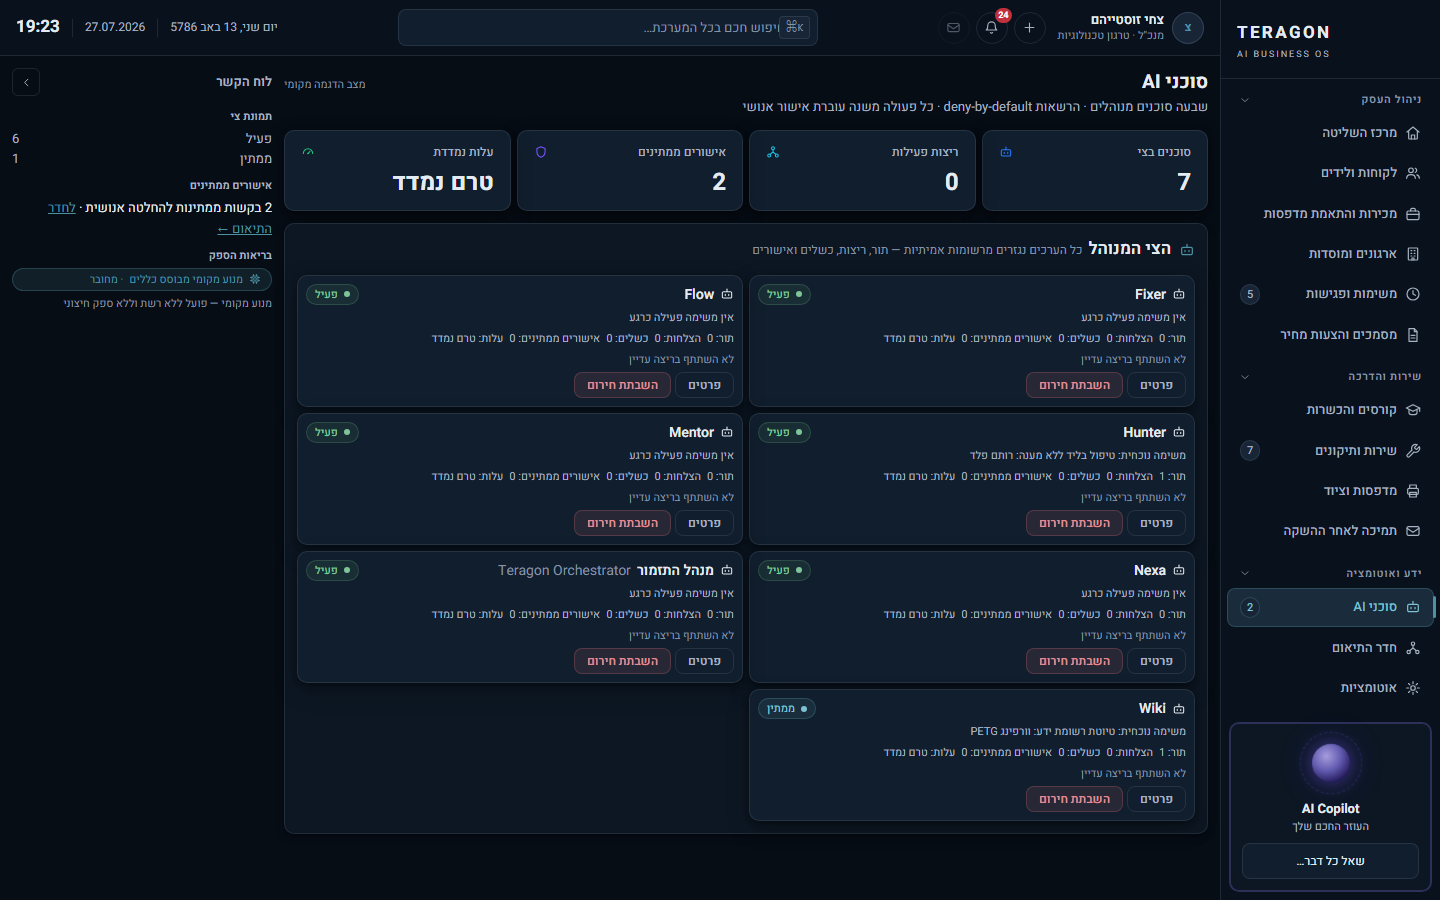
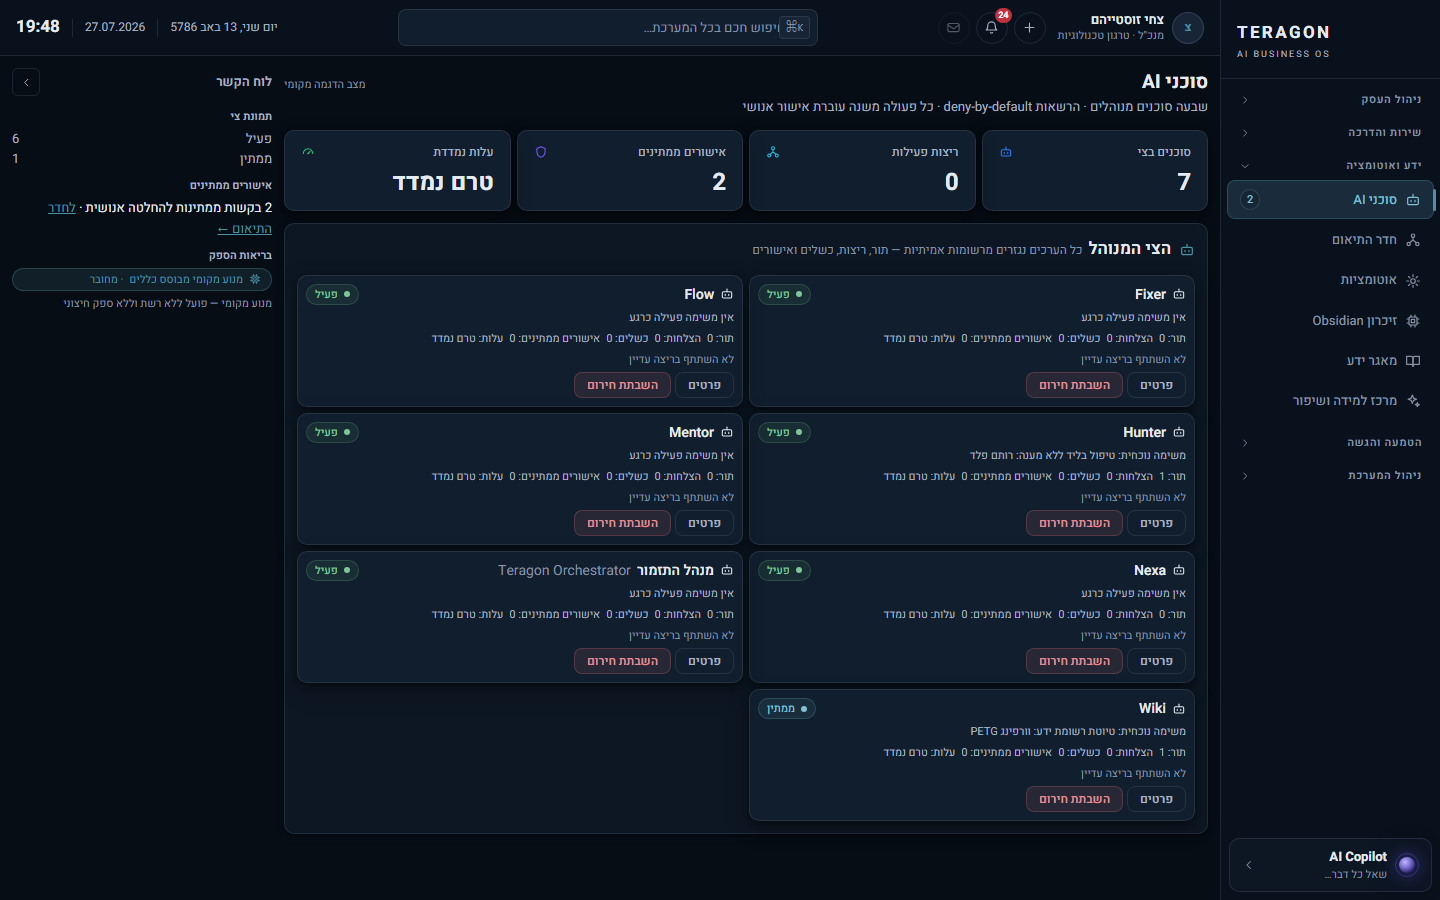
style(shell): VC-B calm application shell + navigation
Only the active nav group expands by default; unrelated groups collapse;
explicit user toggles persist and override the default. Hide zero-value
badges. Lower inactive nav label/icon contrast (AA-verified). Copilot is now
a compact, static, non-glowing button when inactive (violet reserved for the
active Copilot); removed the permanently animated/glowing nav orb.

Pilot axe 0 serious/0 critical/0 contrast; tsc clean; lint clean; 1694/1694.
Branch only, not deployed.

diff --git a/src/app/OsShell.tsx b/src/app/OsShell.tsx
@@ -83,18 +83,17 @@ function NavCopilotCard(): ReactElement {
     <button
       type="button"
       onClick={openCopilot}
-      className="os-copilot os-copilot--button"
+      className="os-copilot os-copilot--compact"
       aria-label="פתיחת AI Copilot"
       data-testid="shell-open-copilot"
     >
-      <GlowOrb size={56} accent="violet" />
-      <div>
-        <div className="os-copilot__title">AI Copilot</div>
-        <div className="os-copilot__sub">העוזר החכם שלך</div>
+      {/* VC-B: compact, static AI marker — no permanently glowing/animated orb */}
+      <GlowOrb size={24} accent="violet" animated={false} />
+      <div className="os-copilot__labels">
+        <span className="os-copilot__title">AI Copilot</span>
+        <span className="os-copilot__sub">שאל כל דבר…</span>
       </div>
-      <div className="os-copilot__form" aria-hidden="true">
-        <span className="os-copilot__input">שאל כל דבר…</span>
-      </div>
+      <OsIcon name="chevron-forward" size={14} aria-hidden="true" />
     </button>
   );
 }
@@ -113,33 +112,31 @@ function OsShellInner(): ReactElement {
     });
   }, []);
 
+  const activeId = activeItemForPath(location.pathname);
+  const activeGroupId = groupOfPath(location.pathname)?.id;
+
+  // VC-B: only the active group is expanded by default; unrelated groups stay
+  // collapsed. An explicit user toggle is persisted and overrides the default.
+  const effectiveOpenGroups = useMemo(() => {
+    const eff: Record<string, boolean> = {};
+    for (const g of NAV_GROUPS) {
+      const stored = shellState.openGroups[g.id];
+      eff[g.id] = typeof stored === "boolean" ? stored : g.id === activeGroupId;
+    }
+    return eff;
+  }, [shellState.openGroups, activeGroupId]);
+
   const toggleGroup = useCallback(
     (groupId: string) => {
-      const open = shellState.openGroups[groupId] !== false;
+      const open = effectiveOpenGroups[groupId] ?? false;
       updateShellState({ openGroups: { ...shellState.openGroups, [groupId]: !open } });
     },
-    [shellState.openGroups, updateShellState],
+    [effectiveOpenGroups, shellState.openGroups, updateShellState],
   );
 
   const toggleRail = useCallback(() => {
     updateShellState({ railCollapsed: !shellState.railCollapsed });
   }, [shellState.railCollapsed, updateShellState]);
-
-  // ── active route → auto-expand its group (runs on route change) ──
-  const activeId = activeItemForPath(location.pathname);
-  const activeGroupId = groupOfPath(location.pathname)?.id;
-  useEffect(() => {
-    if (!activeGroupId) return;
-    setShellState((prev) => {
-      if (prev.openGroups[activeGroupId] !== false) return prev;
-      const next = {
-        ...prev,
-        openGroups: { ...prev.openGroups, [activeGroupId]: true },
-      };
-      saveShellState(next);
-      return next;
-    });
-  }, [activeGroupId]);
 
   // ── derived badges ──
   const badges = useNavBadges();
@@ -155,7 +152,7 @@ function OsShellInner(): ReactElement {
             label: item.label,
             icon: item.icon,
             href: item.path,
-            ...(typeof badge === "number" ? { badge } : {}),
+            ...(typeof badge === "number" && badge > 0 ? { badge } : {}), // VC-B: hide zero badges
           };
         }),
       })),
@@ -228,7 +225,7 @@ function OsShellInner(): ReactElement {
     <ToastProvider>
       <AppShell
         navGroups={navGroups}
-        openGroups={shellState.openGroups}
+        openGroups={effectiveOpenGroups}
         onToggleGroup={toggleGroup}
         activeNavId={activeId}
         activeRoute={location.pathname}
@@ -279,7 +276,7 @@ function OsShellInner(): ReactElement {
         >
           <RightPrimaryNavigation
             groups={navGroups}
-            openGroups={shellState.openGroups}
+            openGroups={effectiveOpenGroups}
             onToggleGroup={toggleGroup}
             activeId={activeId}
             renderLink={renderLink}

diff --git a/src/styles/components.css b/src/styles/components.css
@@ -1437,7 +1437,7 @@
   gap: var(--os-space-4);
   padding: var(--os-space-4) var(--os-space-5);
   border-radius: var(--os-radius-md);
-  color: var(--os-text-2);
+  color: var(--text-muted); /* VC-B: inactive de-emphasis (AA-verified) */
   font-size: var(--os-text-sm);
   font-weight: var(--os-weight-medium);
   cursor: pointer;
@@ -1452,8 +1452,8 @@
 }
 
 .os-nav__link:hover {
-  color: var(--os-text);
-  background: var(--os-highlight);
+  color: var(--text-primary);
+  background: var(--surface-2);
 }
 
 .os-nav__link--active {
@@ -1517,6 +1517,40 @@
   align-items: center;
   gap: var(--os-space-4);
   text-align: center;
+}
+
+/* VC-B: inactive Copilot = compact quiet button (violet reserved for ACTIVE) */
+.os-copilot--compact {
+  flex-direction: row;
+  align-items: center;
+  text-align: start;
+  gap: var(--os-space-4);
+  padding: var(--os-space-4) var(--os-space-5);
+  background: var(--surface-1);
+  border-color: var(--border-default);
+  box-shadow: none;
+  cursor: pointer;
+  transition:
+    background-color var(--os-transition-fast),
+    border-color var(--os-transition-fast);
+}
+.os-copilot--compact:hover {
+  background: var(--surface-2);
+  border-color: var(--border-strong);
+}
+.os-copilot--compact .os-copilot__labels {
+  display: flex;
+  flex-direction: column;
+  flex: 1;
+  min-inline-size: 0;
+}
+.os-copilot--compact .os-copilot__sub {
+  color: var(--text-muted);
+}
+.os-copilot--compact > svg,
+.os-copilot--compact > .os-icon {
+  color: var(--text-muted);
+  flex: none;
 }
 
 .os-copilot__title {
